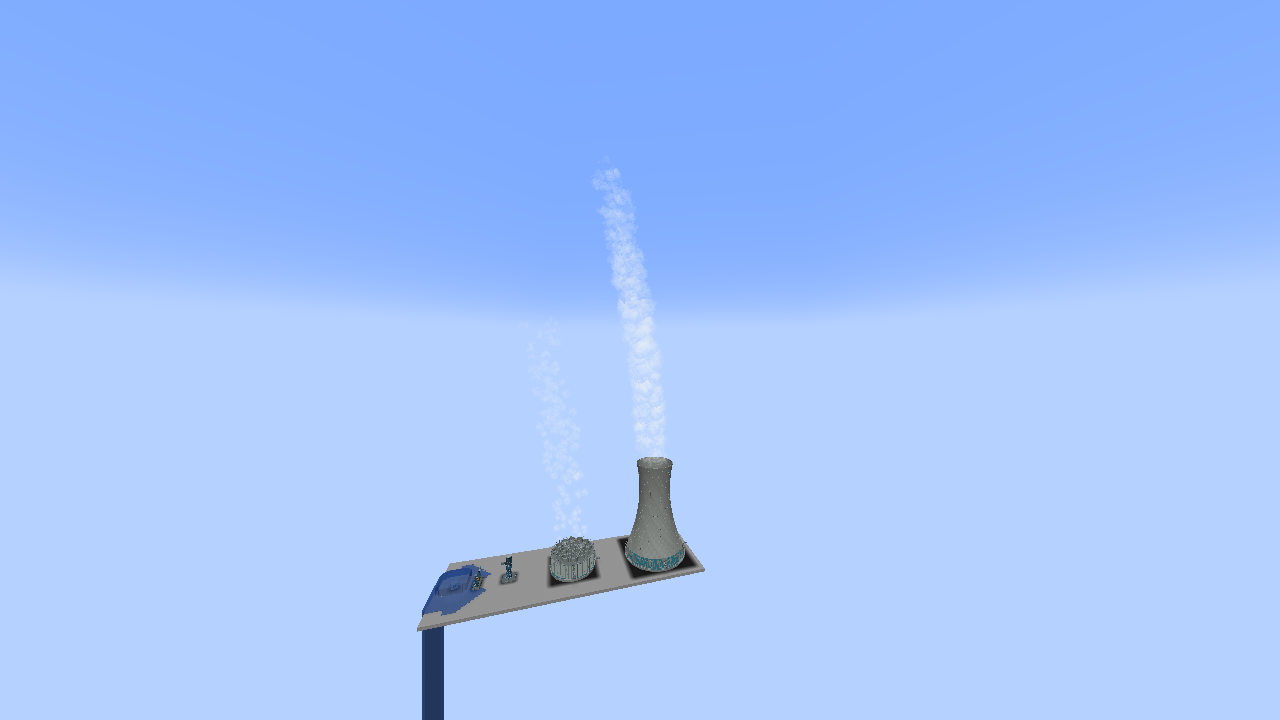
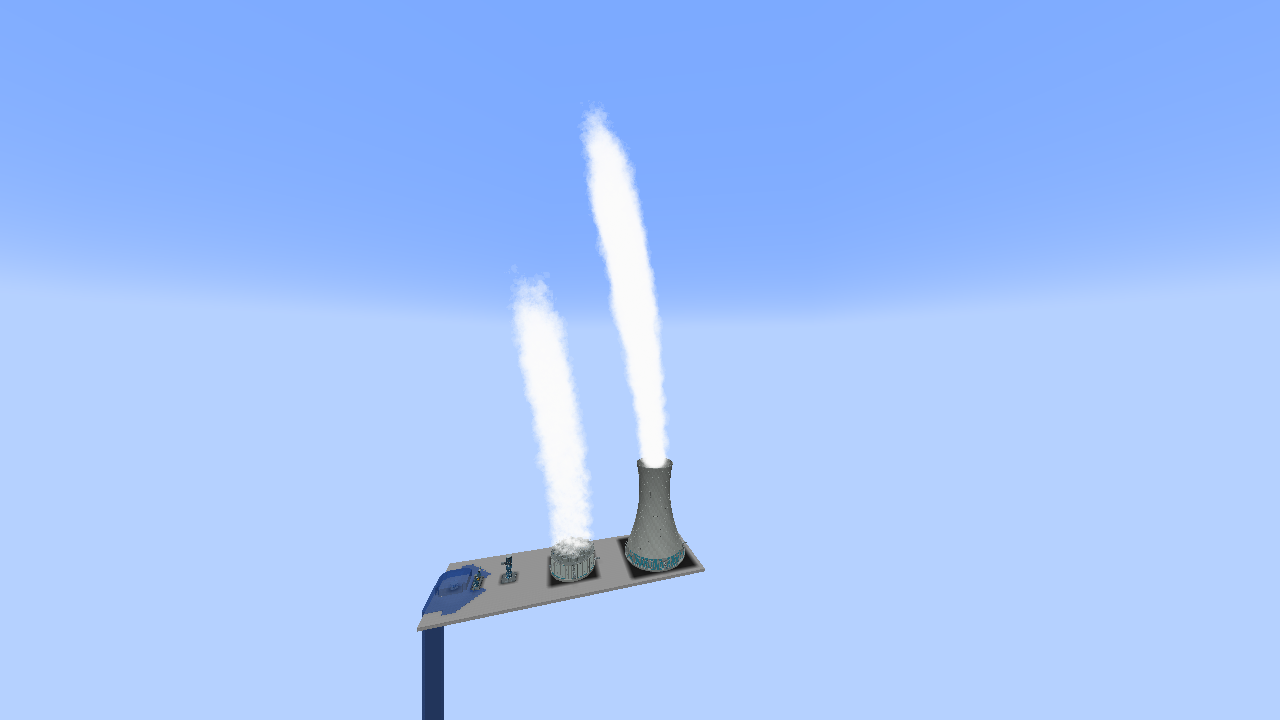
Make cooling tower vapor continuous and denser for alpha.10

Changed region(s): [[0.375, 0.1528, 0.5312, 0.7944]]

diff --git a/mod/src/main/java/dev/bwr/mod/cooling/client/CoolingVaporParticle.java b/mod/src/main/java/dev/bwr/mod/cooling/client/CoolingVaporParticle.java
@@ -1,6 +1,7 @@
 package dev.bwr.mod.cooling.client;
 
 import dev.bwr.mod.registry.BwrParticles;
+import com.mojang.blaze3d.systems.RenderSystem;
 import net.minecraft.client.multiplayer.ClientLevel;
 import net.minecraft.client.particle.*;
 import net.minecraft.core.particles.*;
@@ -14,15 +15,22 @@ import java.util.Optional;
 @EventBusSubscriber(modid="bwr",value=Dist.CLIENT)
 public final class CoolingVaporParticle extends TextureSheetParticle {
     private static final ParticleGroup GROUP=new ParticleGroup(1_200);
+    // Vapor layers blend through each other but still depth-test against solid scenery.
+    // Writing depth here cuts later layers into hard circular slices.
+    private static final ParticleRenderType VAPOR_SHEET=(tesselator,textures)->{
+        var buffer=ParticleRenderType.PARTICLE_SHEET_TRANSLUCENT.begin(tesselator,textures);
+        RenderSystem.depthMask(false);
+        return buffer;
+    };
     private final float initialSize,opacity;
     private final double lift,phase;
 
     private CoolingVaporParticle(ClientLevel level,double x,double y,double z,double size,double rise,double strength,SpriteSet sprites){
         super(level,x,y,z);
         initialSize=(float)Math.clamp(size,.5,5);lift=Math.clamp(rise,.15,.55);
-        opacity=(float)Math.clamp(strength,.1,.6);phase=random.nextDouble()*Math.PI*2;
+        opacity=(float)Math.clamp(strength,.05,.9);phase=random.nextDouble()*Math.PI*2;
         lifetime=420+random.nextInt(180);hasPhysics=false;
-        rCol=.94f;gCol=.96f;bCol=.98f;quadSize=initialSize;alpha=0;
+        rCol=gCol=bCol=1;quadSize=initialSize;alpha=0;
         pickSprite(sprites);
     }
     @Override public void tick(){
@@ -38,10 +46,12 @@ public final class CoolingVaporParticle extends TextureSheetParticle {
         yd+=(lift*(1-.6*progress)-yd)*.06;
         move(xd,yd,zd);
         quadSize=initialSize*(1+2.5f*(float)progress);
-        alpha=opacity*(float)Math.min(1,age/25.0)*(float)Math.pow(1-progress,1.4);
+        double dispersal=Math.clamp((progress-.35)/.65,0,1);
+        double fade=1-dispersal*dispersal*(3-2*dispersal);
+        alpha=opacity*(float)Math.min(1,age/6.0)*(float)fade;
         setSize(quadSize*2,quadSize*2);
     }
-    @Override public ParticleRenderType getRenderType(){return ParticleRenderType.PARTICLE_SHEET_TRANSLUCENT;}
+    @Override public ParticleRenderType getRenderType(){return VAPOR_SHEET;}
     @Override public Optional<ParticleGroup> getParticleGroup(){return Optional.of(GROUP);}
     @SubscribeEvent public static void providers(RegisterParticleProvidersEvent event){
         event.registerSpriteSet(BwrParticles.COOLING_VAPOR.get(),sprites->(type,level,x,y,z,size,rise,strength)->{

diff --git a/mod/src/main/java/dev/bwr/mod/cooling/CoolingBlockEntity.java b/mod/src/main/java/dev/bwr/mod/cooling/CoolingBlockEntity.java
@@ -124,29 +124,28 @@ public class CoolingBlockEntity extends BlockEntity {
         be.previousFanAngle=be.fanAngle;
         be.fanAngle+=12*(float)be.actual; // Positive model-space Y rotation; 40 visual RPM at full speed.
         if(be.fanAngle > 3600){be.fanAngle-=3600;be.previousFanAngle-=3600;}
-        if(!be.design().tower||be.vaporActivity<=0||l.getGameTime()-be.vaporUpdated>40||l.getGameTime()%3!=0)return;
+        if(!be.design().tower||be.vaporActivity<=0||l.getGameTime()-be.vaporUpdated>40)return;
         boolean natural=be.design()==Design.NATURAL;
         var bounds=be.layout().bounds(p,s.getValue(CoolingBlock.FACING));
         if(l.getNearestPlayer(bounds.getCenter().x,bounds.maxY,bounds.getCenter().z,256,false)==null)return;
         double strength=Math.sqrt(be.vaporActivity);
-        int puffs=natural?3:2;
-        for(int i=0;i<puffs;i++){
-            if(l.random.nextDouble()>strength)continue;
+        // One overlapping layer each tick avoids bursts and keeps two full towers below the shared cap.
+        {
             double x,z,y;
             if(natural){
-                double a=l.random.nextDouble()*Math.PI*2,r=Math.sqrt(l.random.nextDouble())*(bounds.maxX-bounds.minX)*.22;
+                double a=l.random.nextDouble()*Math.PI*2,r=Math.sqrt(l.random.nextDouble())*(bounds.maxX-bounds.minX)*.10;
                 x=bounds.getCenter().x+Math.cos(a)*r;z=bounds.getCenter().z+Math.sin(a)*r;y=bounds.maxY-.15;
             }else{
                 var rotors=be.layout().rotors;if(rotors.isEmpty())return;
-                var rotor=rotors.get(l.random.nextInt(rotors.size()));var c=be.layout().controller;
+                var rotor=rotors.get((int)Math.floorMod(l.getGameTime()*7+p.asLong(),rotors.size()));var c=be.layout().controller;
                 double dx=rotor.x-c.getX()-.5,dz=rotor.z-c.getZ()-.5;
                 double a=Math.toRadians(switch(s.getValue(CoolingBlock.FACING)){case EAST->90;case SOUTH->180;case WEST->270;default->0;});
                 x=p.getX()+.5+dx*Math.cos(a)-dz*Math.sin(a);z=p.getZ()+.5+dx*Math.sin(a)+dz*Math.cos(a);
                 y=Math.max(bounds.maxY+.1,p.getY()+rotor.y-c.getY()+.7);
             }
-            if(!l.canSeeSky(BlockPos.containing(x,y,z)))continue;
+            if(!l.canSeeSky(BlockPos.containing(x,y,z)))return;
             l.addParticle(dev.bwr.mod.registry.BwrParticles.COOLING_VAPOR.get(),true,x,y,z,
-                    natural?3.2:1.8,natural?.43:.30,.36+.14*strength);
+                    natural?5.0:3.4,natural?.43:.30,.12+.72*strength);
         }
     }
     private void push(){

diff --git a/art/models/cooling/build_vapor_sprites.py b/art/models/cooling/build_vapor_sprites.py
@@ -26,9 +26,9 @@ links.new(transparent.outputs[0],mix.inputs[1]);links.new(white.outputs[0],mix.i
 coords=nodes.new('ShaderNodeTexCoord');distance=nodes.new('ShaderNodeVectorMath');distance.operation='DISTANCE';distance.inputs[1].default_value=(.5,.5,0)
 links.new(coords.outputs['UV'],distance.inputs[0])
 falloff=nodes.new('ShaderNodeMapRange');falloff.inputs['From Min'].default_value=.02;falloff.inputs['From Max'].default_value=.49;falloff.inputs['To Min'].default_value=1;falloff.inputs['To Max'].default_value=0;falloff.clamp=True;links.new(distance.outputs['Value'],falloff.inputs['Value'])
-soft=nodes.new('ShaderNodeMath');soft.operation='POWER';soft.inputs[1].default_value=1.4;links.new(falloff.outputs['Result'],soft.inputs[0])
+soft=nodes.new('ShaderNodeMath');soft.operation='POWER';soft.inputs[1].default_value=1.2;links.new(falloff.outputs['Result'],soft.inputs[0])
 noise=nodes.new('ShaderNodeTexNoise');noise.noise_dimensions='4D';noise.inputs['Scale'].default_value=5;noise.inputs['Detail'].default_value=3;noise.inputs['Roughness'].default_value=.65;links.new(coords.outputs['UV'],noise.inputs['Vector'])
-contrast=nodes.new('ShaderNodeMapRange');contrast.inputs['From Min'].default_value=.30;contrast.inputs['From Max'].default_value=.68;contrast.inputs['To Min'].default_value=0;contrast.inputs['To Max'].default_value=2;contrast.clamp=True;links.new(noise.outputs['Fac'],contrast.inputs['Value'])
+contrast=nodes.new('ShaderNodeMapRange');contrast.inputs['From Min'].default_value=.30;contrast.inputs['From Max'].default_value=.68;contrast.inputs['To Min'].default_value=.15;contrast.inputs['To Max'].default_value=1.5;contrast.clamp=True;links.new(noise.outputs['Fac'],contrast.inputs['Value'])
 mul=nodes.new('ShaderNodeMath');mul.operation='MULTIPLY';links.new(contrast.outputs['Result'],mul.inputs[0]);links.new(soft.outputs[0],mul.inputs[1]);links.new(mul.outputs[0],mix.inputs[0])
 cloud.data.materials.append(mat)
 bpy.ops.object.light_add(type='AREA',location=(-3,-4,5));light=bpy.context.object;light.name='Broad white key';light.data.energy=850;light.data.shape='DISK';light.data.size=5;light.rotation_euler=(Vector((0,0,0))-light.location).to_track_quat('-Z','Y').to_euler()

diff --git a/BUILD-STATUS.md b/BUILD-STATUS.md
@@ -1,5 +1,28 @@
 # Build Status
 
+## 2026-09-25 — 0.1.0-alpha.10: continuous white tower vapor
+
+Built `mod/build/libs/mod-0.1.0-alpha.10.jar` (**22,726,911 bytes**).
[1 lines of base64/hex data omitted]
+
+- Both towers emit overlapping layers every client tick. Larger white sprites
+  keep a denser core before dispersing. Mechanical emission is spread across
+  fan outlets; natural emission is concentrated above the stack mouth.
+- Vapor uses a shared translucent batch without depth writes, preventing
+  overlapping clouds from cutting one another into circular slices. Solid
+  scenery still depth-tests. Blender sprite sources and textures were updated.
+- Shared 1,200-particle cap, reduced/minimal settings, wind, rise, fading and
+  actual heat-rejection gating remain. No machine physics or GUI protocol change.
+- Minecraft cooling client check and screenshot review passed: 1,031 particles
+  across both running towers, continuous plumes, correct fan speed and GUI.
+- Build/design guard, 2,401-JSON asset audit, JAR packaging audit and whitespace
+  checks passed. Full reactor tests were not rerun for this visual patch.
+- Source update for GitHub `main`. GUI protocol remains 9. This source push
+  does not publish a GitHub Release or upload the built JAR.
+
+Logs: `tmp/vapor-alpha10-final-client-build.log`, `tmp/vapor-alpha10-blender.log`,
+`tmp/vapor-alpha10-assets.log`, `tmp/vapor-alpha10-jar.log`.
+
 ## 2026-09-25 — 0.1.0-alpha.9: fan direction and animation speed
 
 Built `mod/build/libs/mod-0.1.0-alpha.9.jar` (**22,727,745 bytes**).

diff --git a/HANDOFF.md b/HANDOFF.md
@@ -1,3 +1,15 @@
+## Alpha.10 source update (2026-09-25)
+
+Continuous, whiter and thicker vapor on both cooling towers. Emit overlapping
+layers every client tick, distribute mechanical emission evenly across fans,
+and use broader Blender-rendered sprites with a longer dense phase before fade.
+Shared 1,200-particle cap and particle settings remain. No physics or GUI
+protocol change. Source update for GitHub `main`; prior tip is 8991902.
+No GitHub Release or JAR upload is created by the source push.
+Deliver JAR only, and end update responses with a Discord changelog.
+Final artifact: `mod/build/libs/mod-0.1.0-alpha.10.jar`. Minecraft screenshot
+review, client checks, build, asset and JAR audits passed. See BUILD-STATUS.md.
+
 ## Alpha.8–alpha.9 source update (2026-09-25)
 
 Follow-up fan patch: reverse alpha.8's mechanical-tower rotation and increase
@@ -29,7 +41,7 @@ Deliver the **JAR only**, not a ZIP, unless the user changes this preference.
 
 ## Increased tritium yield (2026-09-24)
 
-Current local version: **0.1.0-alpha.9**, GUI protocol **9**. User accepted
+Current local version: **0.1.0-alpha.10**, GUI protocol **9**. User accepted
 either 10,000 or 12,500 buckets per target; selected **12,500** to leave a
 5.8% margin with 64 targets against their friend's 2.5 buckets/second D-T
 consumption (1.25 buckets/second tritium). Harvest now gives **1,250 samples**,

diff --git a/README.md b/README.md
@@ -9,7 +9,7 @@ boiling water reactor, modeled pumps, and connected steam and water systems.
 Power emerges from neutronics: move the control rods and change recirculation
 flow, and the reactor responds. There is no commanded burn rate.
 
-**Current version:** `0.1.0-alpha.9` — cooling-tower fan direction and speed patch, September 25, 2026.
+**Current version:** `0.1.0-alpha.10` — continuous, denser cooling-tower vapor, September 25, 2026.
 
 See the [full changelog](CHANGELOG.md) for the hardware, performance, condenser,
 fuel and irradiation updates.
@@ -42,7 +42,7 @@ BWR model. Specialty irradiation now takes 24–168 operating hours at rated
 local flux. A completed tritium rod yields 1,250 samples, processable into
 12,500,000 mB (12,500 buckets) of tritium through a powered Chemical Oxidizer when Mekanism and
 Mekanism Generators are installed. Install
-alpha.9 on both client and server; GUI protocol is 9.
+alpha.10 on both client and server; GUI protocol is 9.
 
 The first-publication candidate adds live CC:Tweaked faces across the machine
 registry, segmented water temperatures, condenser backpressure that affects LP

diff --git a/COOLING-WATER.md b/COOLING-WATER.md
@@ -195,11 +195,14 @@ It does not enter the cold/hot circulating-water inventories. Water chemistry
 and purification are not simulated. Older placed condensers must be drained
 and replaced to receive these new physical ports.
 
-## Tower vapor (alpha.8)
+## Tower vapor (alpha.10)
 
 ![Operating towers with drifting vapor in Minecraft](art/models/cooling/tall-vapor-plumes.png)
 
 Both tower types produce white vapor only while moving water and rejecting heat.
+Overlapping layers are emitted every client tick, with wider white sprites and
+a fuller opacity profile to make a continuous column. Mechanical towers cycle
+through fan outlets evenly; natural towers form a concentrated rising plume.
 Client particles rise with buoyancy, drift with a slowly changing shared wind,
 spread and fade over 21–30 seconds. Rain strengthens the drift. Natural-draft
 plumes can climb roughly 120–180 blocks; mechanical-tower plumes rise less.

diff --git a/CHANGELOG.md b/CHANGELOG.md
@@ -1,5 +1,12 @@
 # Changelog
 
+## 0.1.0-alpha.10 — 2026-09-25
+
+- Reworked both cooling-tower plumes into continuous overlapping vapor layers instead of intermittent puffs.
+- Made vapor whiter and denser with larger Blender-rendered sprites, a fuller base and slower dispersal aloft.
+- Fixed overlapping vapor layers cutting each other into visible circular slices.
+- Retained wind drift, rising motion, eventual fade, particle settings and the shared 1,200-particle limit. GUI protocol remains 9.
+
 ## 0.1.0-alpha.9 — 2026-09-25
 
 - Reversed the mechanical cooling-tower fan animation following in-game feedback.
